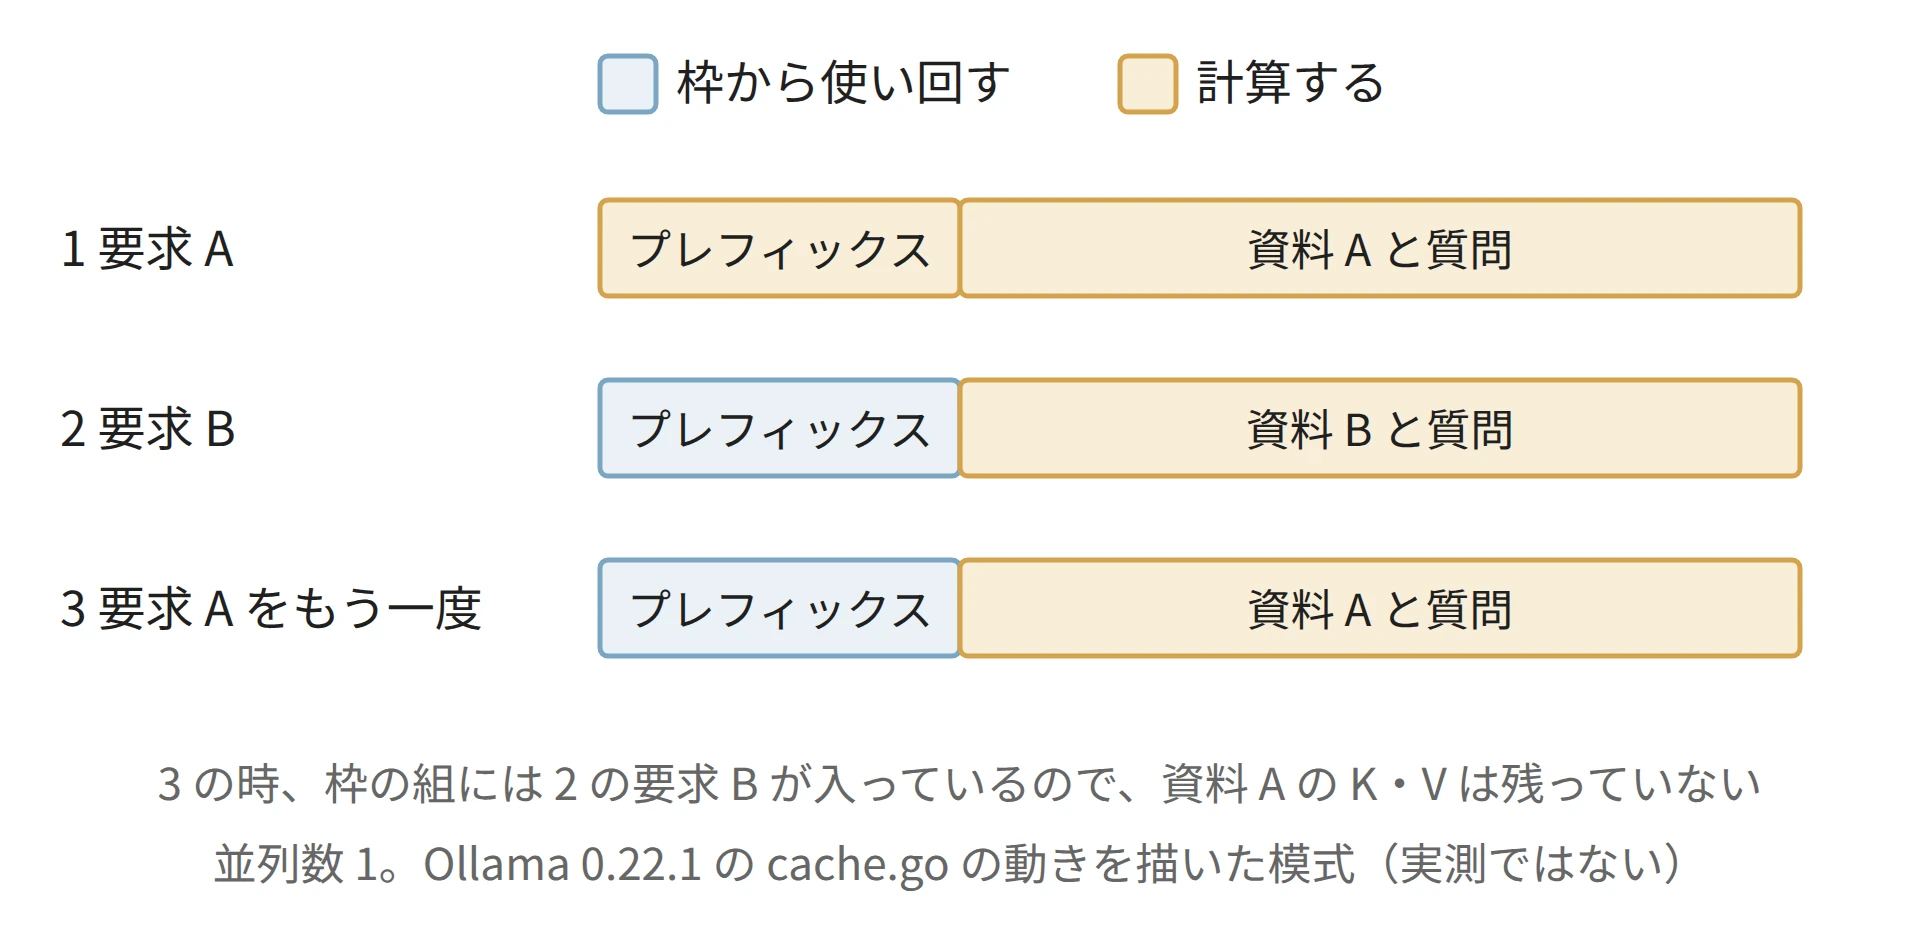
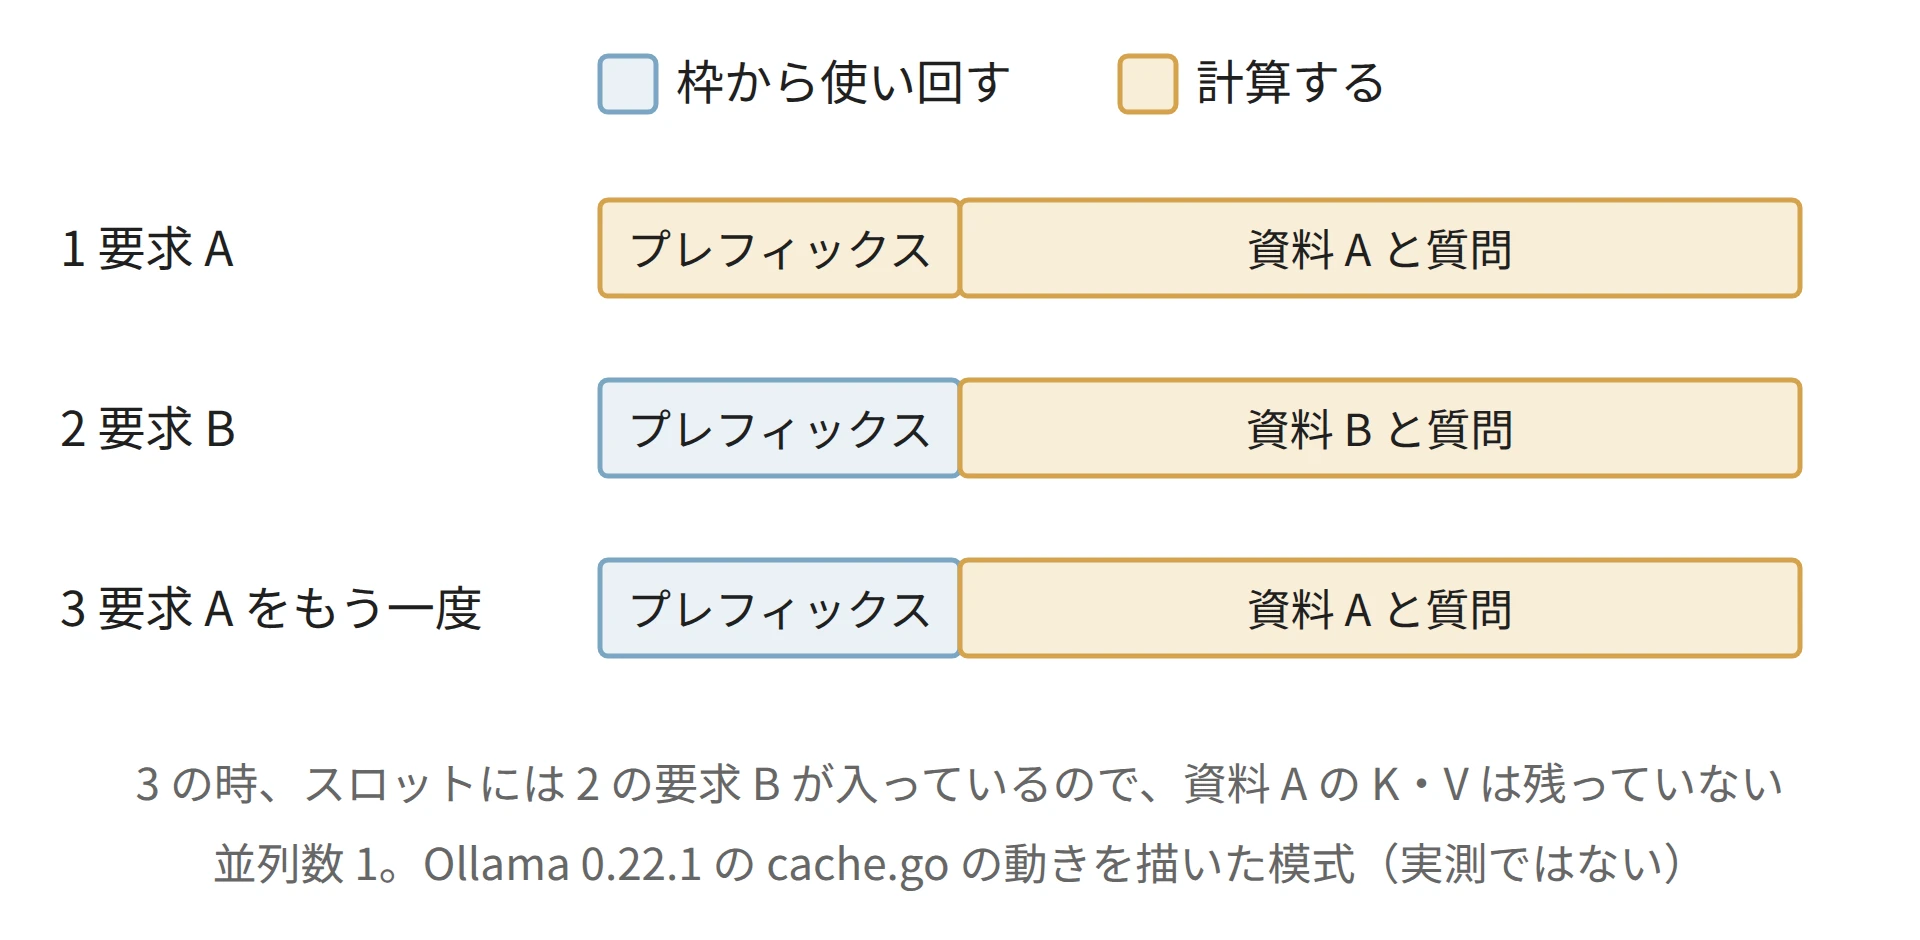
docs(notes): replace the bare 組 in the Ollama context length note and its figure
Claude-Session: https://claude.ai/code/session_01YUxqeZKPbCLCF82LgM8vBK

Changed region(s): [[0.0625, 0.8021, 0.9375, 0.8638]]

diff --git a/content/notes/generative-ai/ollama-context-length/figures.py b/content/notes/generative-ai/ollama-context-length/figures.py
@@ -4,7 +4,7 @@
 - ollama-context-length_default.webp   : 既定の num_ctx が GPU のメモリで決まり、モデルの上限で頭打ちになる流れ
 - ollama-context-length_breakdown.webp : q4_K_M の size を KV キャッシュとそれ以外に分ける
 - ollama-context-length_truncate.webp  : num_ctx 2,048 で 3,084 トークンの入力を切り詰めた範囲
-- ollama-context-length_slot.webp      : 枠が 1 組の時に別の要求が挟まると、共通のプレフィックスだけが残る（cache.go の模式）
+- ollama-context-length_slot.webp      : スロットが 1 つの時に別の要求が挟まると、共通のプレフィックスだけが残る（cache.go の模式）
 
 手書きの SVG を Chrome の headless で PNG にしてから WebP にする。images/ に SVG は残さない。
 
@@ -158,12 +158,12 @@ def default_figure():
 
 
 def slot_figure():
-    """並列数 1（枠が 1 組）で、要求 A の間に要求 B が挟まった時に使い回せる範囲。
+    """並列数 1（スロットが 1 つ）で、要求 A の間に要求 B が挟まった時に使い回せる範囲。
 
-    Ollama 0.22.1 の runner/ollamarunner/cache.go は、枠に残ったトークン列と新しい入力を
+    Ollama 0.22.1 の runner/ollamarunner/cache.go は、スロットに残ったトークン列と新しい入力を
     先頭から比べ、一致した数だけ使い回す。実測ではなく、コードの動きを描いた模式。
     """
-    s = Svg(960, 470, "枠が 1 組の時に別の要求が挟まると、共通のプレフィックスだけが残る")
+    s = Svg(960, 470, "スロットが 1 つの時に別の要求が挟まると、共通のプレフィックスだけが残る")
     s.rect(300, 28, 28, 28, PALE, ACCENT, 2.5)
     s.text(338, 50, "枠から使い回す", 24, "start")
     s.rect(560, 28, 28, 28, OCHRE_PALE, OCHRE, 2.5)
@@ -183,7 +183,7 @@ def slot_figure():
             s.rect(x, y, w, 48, fill, stroke, 2.5)
             s.text(x + w / 2, y + 33, name, 22)
             x += w
-    s.text(480, 400, "3 の時、枠の組には 2 の要求 B が入っているので、資料 A の K・V は残っていない", 22, "middle", "sub")
+    s.text(480, 400, "3 の時、スロットには 2 の要求 B が入っているので、資料 A の K・V は残っていない", 22, "middle", "sub")
     s.text(480, 440, "並列数 1。Ollama 0.22.1 の cache.go の動きを描いた模式（実測ではない）", 22, "middle", "sub")
     s.save("ollama-context-length_slot.webp")
 

diff --git a/content/notes/generative-ai/ollama-context-length/index.md b/content/notes/generative-ai/ollama-context-length/index.md
@@ -179,7 +179,7 @@ KV キャッシュの大きさは、1 トークンあたりの大きさ × num_c
 | 要求ごとの `num_ctx` | 枠の数 | 超えた入力は切り詰められる |
 | サーバーの環境変数 `OLLAMA_CONTEXT_LENGTH` | num_ctx を指定しない要求の枠の数 | 同上 |
 | サーバーの環境変数 `OLLAMA_KV_CACHE_TYPE` | K・V の数値 1 個のバイト数。既定の `f16`（16 ビット）に対し、`q8_0` で約半分、`q4_0` で約 4 分の 1 | 精度が少し落ちる。全てのモデルが対象になる |
-| サーバーの環境変数 `OLLAMA_NUM_PARALLEL` | 同時に処理する要求の数。要求ごとに num_ctx 個の枠の組を用意するので、その数だけ確保する量が増える | 減らすと同時に処理できる要求が減る |
+| サーバーの環境変数 `OLLAMA_NUM_PARALLEL` | 同時に処理する要求の数。要求ごとに num_ctx 個の枠を別に用意するので、その数だけ確保する量が増える | 減らすと同時に処理できる要求が減る |
 
 要求ごとの `num_ctx` は、`/api/generate` や `/api/chat` の `options` に書きます。
 
@@ -205,11 +205,11 @@ KV キャッシュの大きさは、1 トークンあたりの大きさ × num_c
 
 <br>
 
-並列数が 1 のサーバーでは、枠の組（要求 1 つ分のキャッシュ）も 1 組だけです。以下は、複数のアプリや会話が交互に使うサーバーで、要求 A の間に、先頭のプレフィックス（同じシステムプロンプトなど）だけが共通する要求 B が挟まった時の模式図です（0.22.1 のコードから描きました）。
+並列数が 1 のサーバーでは、要求 1 つ分のキャッシュを置くスロット（Ollama のコードでは cache slot）も 1 つだけです。以下は、複数のアプリや会話が交互に使うサーバーで、要求 A の間に、先頭のプレフィックス（同じシステムプロンプトなど）だけが共通する要求 B が挟まった時の模式図です（0.22.1 のコードから描きました）。
 
-{{< figure src="images/ollama-context-length_slot.webp" alt="3 本の帯。1 要求 A は、共通のプレフィックスと資料 A と質問の全てが黄土（計算する）。2 要求 B は、共通のプレフィックスが青（枠から使い回す）で、資料 B と質問が黄土。3 要求 A をもう一度は、共通のプレフィックスが青で、資料 A と質問が黄土。下に、3 の時、枠の組には 2 の要求 B が入っているので資料 A の K・V は残っていない、並列数 1、Ollama 0.22.1 の cache.go の動きを描いた模式（実測ではない）と書かれている" caption="枠が 1 組の時に別の要求が挟まると、共通のプレフィックスだけが残る（模式図）" align="center" >}}
+{{< figure src="images/ollama-context-length_slot.webp" alt="3 本の帯。1 要求 A は、共通のプレフィックスと資料 A と質問の全てが黄土（計算する）。2 要求 B は、共通のプレフィックスが青（枠から使い回す）で、資料 B と質問が黄土。3 要求 A をもう一度は、共通のプレフィックスが青で、資料 A と質問が黄土。下に、3 の時、スロットには 2 の要求 B が入っているので資料 A の K・V は残っていない、並列数 1、Ollama 0.22.1 の cache.go の動きを描いた模式（実測ではない）と書かれている" caption="スロットが 1 つの時に別の要求が挟まると、共通のプレフィックスだけが残る（模式図）" align="center" >}}
 
-別の要求が間に入ると、枠の組の中身はその要求のものに置き換わり、使い回せる部分は減ります。ただし、全てが消えるとは限りません。0.22.1 のコードは、枠の組に残ったトークン列と新しい入力を先頭から比べ、一致した数だけ使い回すからです（[cache.go](https://github.com/ollama/ollama/blob/v0.22.1/runner/ollamarunner/cache.go) の `LoadCacheSlot`）。図の 3 で使い回せるのは要求 B と共通のプレフィックスだけで、資料 A の部分は計算し直しになります（本記事では実測していません）。
+別の要求が間に入ると、スロットの中身はその要求のものに置き換わり、使い回せる部分は減ります。ただし、全てが消えるとは限りません。0.22.1 のコードは、スロットに残ったトークン列と新しい入力を先頭から比べ、一致した数だけ使い回すからです（[cache.go](https://github.com/ollama/ollama/blob/v0.22.1/runner/ollamarunner/cache.go) の `LoadCacheSlot`）。図の 3 で使い回せるのは要求 B と共通のプレフィックスだけで、資料 A の部分は計算し直しになります（本記事では実測していません）。
 
 ---
 
